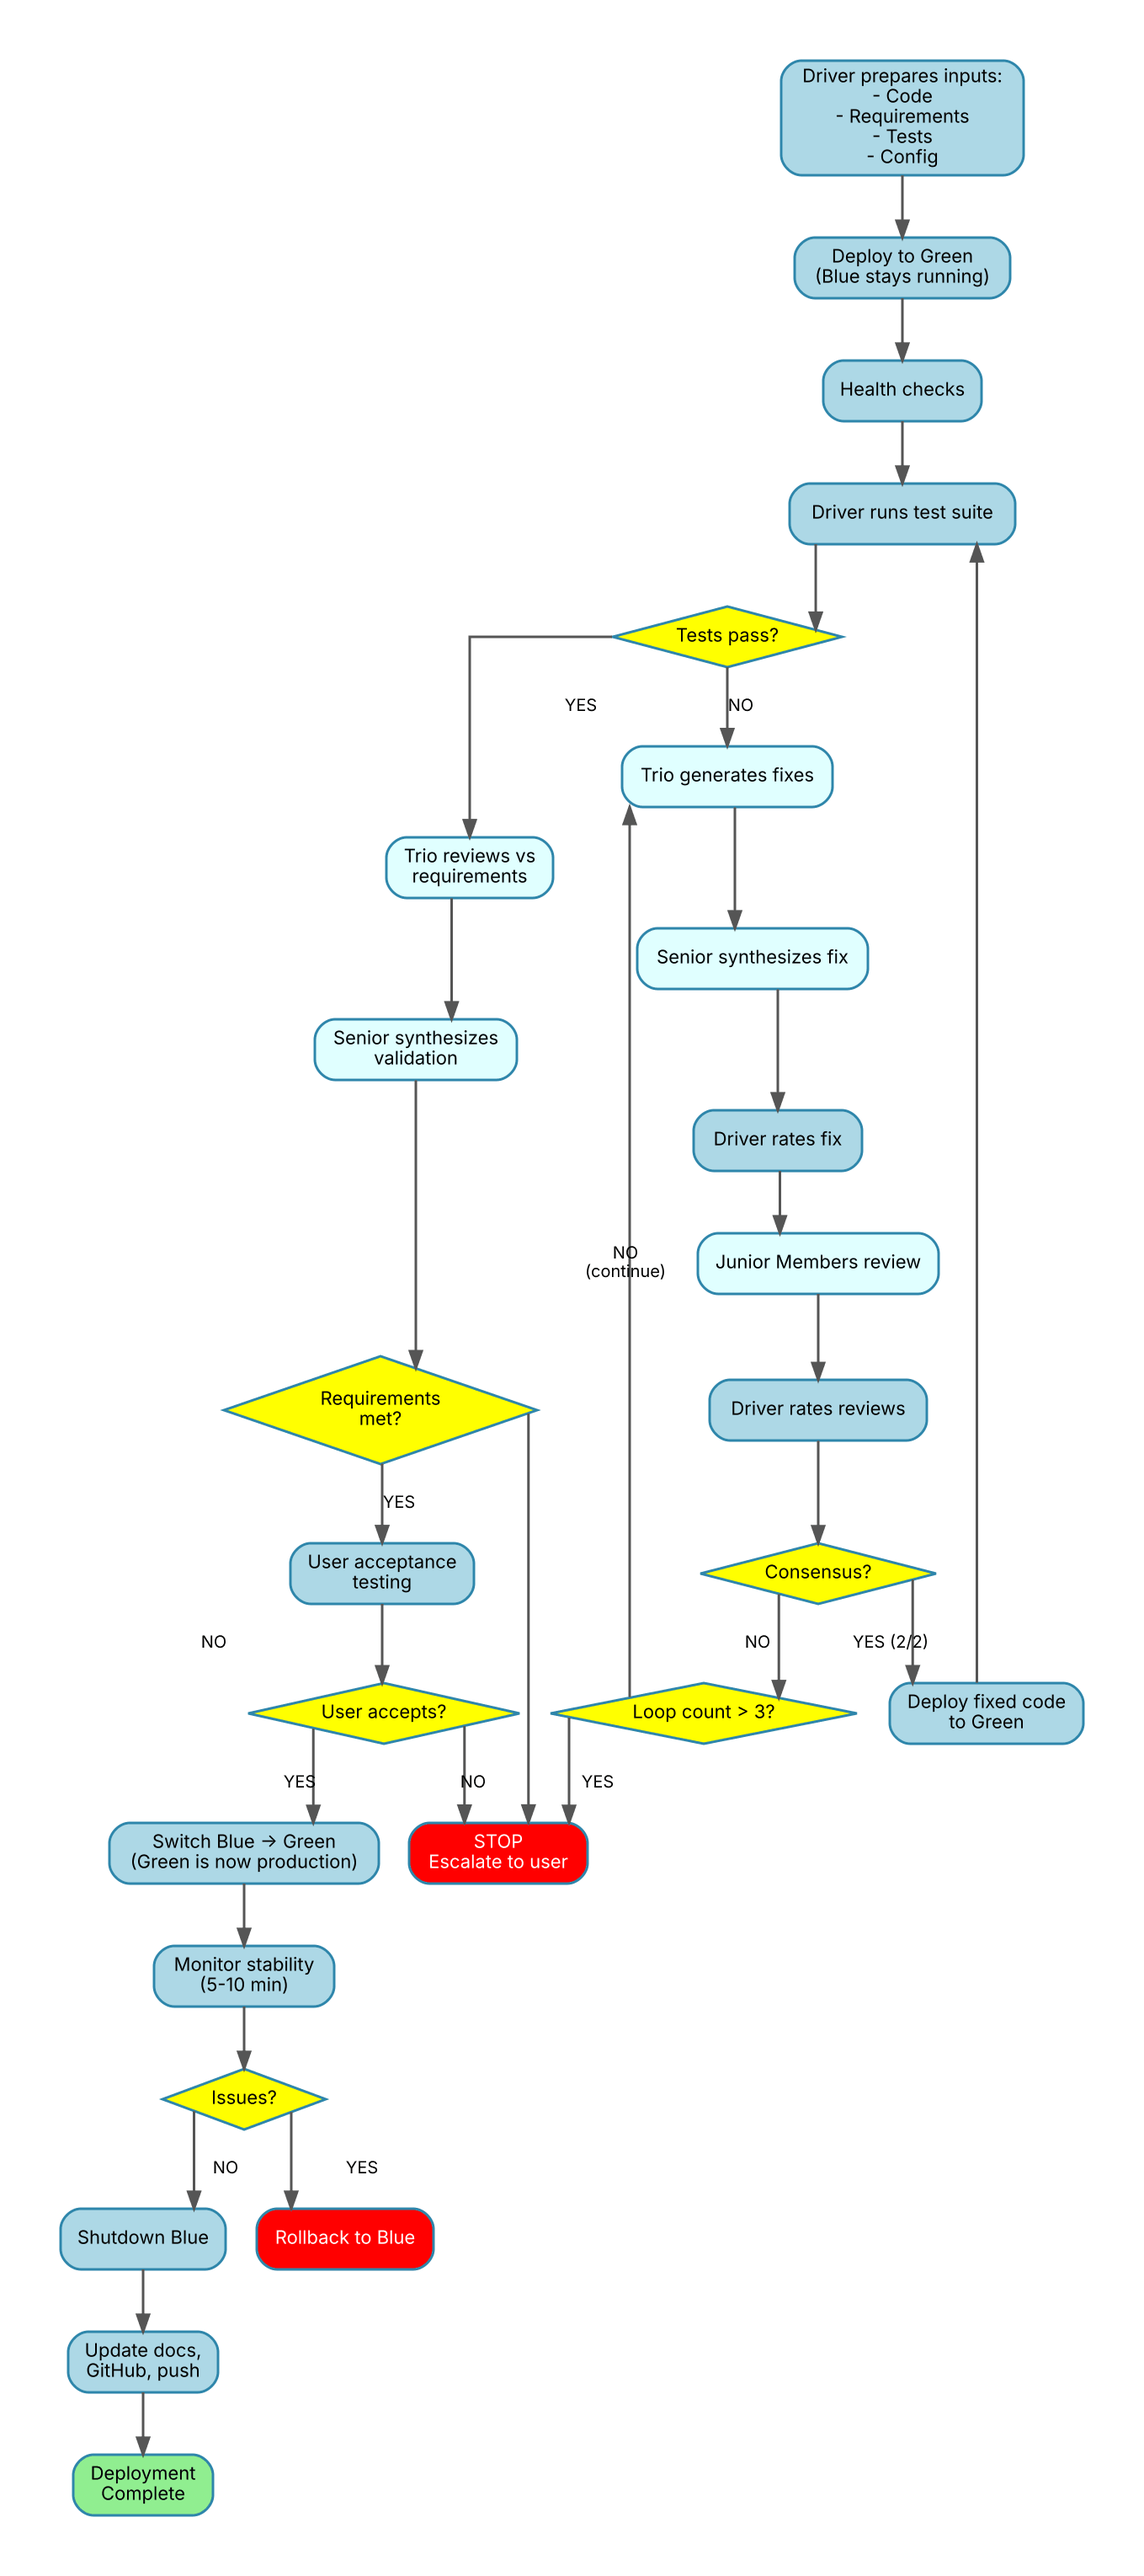
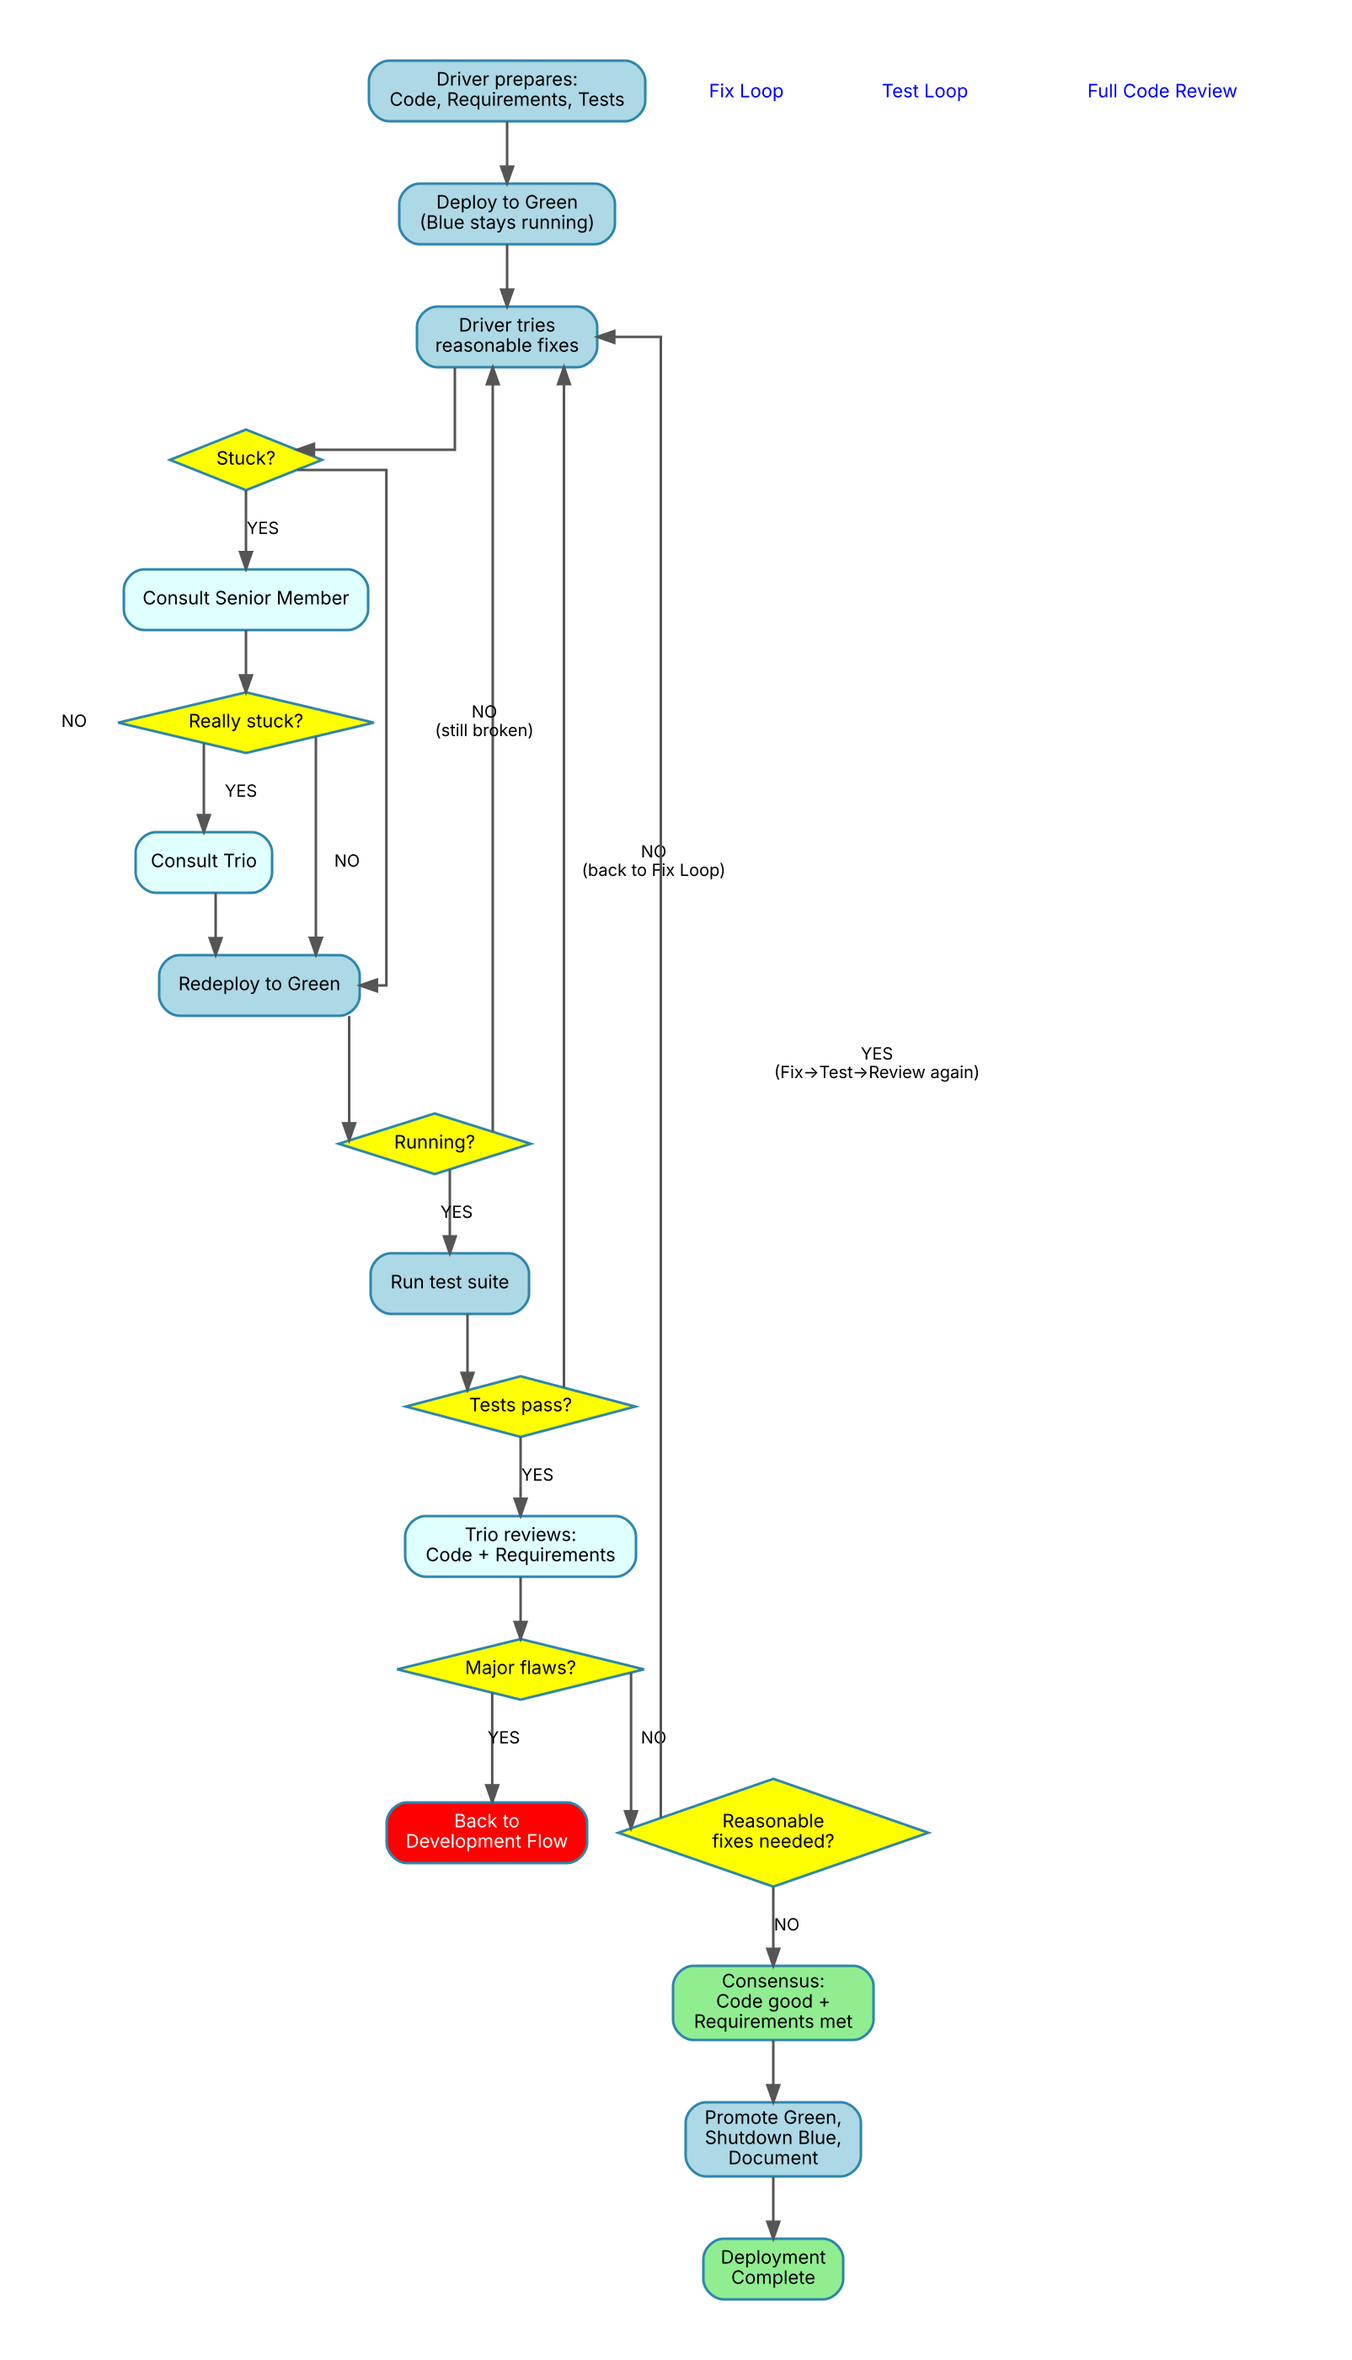
Simplify Deployment Flow: Fix Loop → Test Loop → Full Code Review → Done

diff --git a/processes/Deployment_Flow_v1.0.md b/processes/Deployment_Flow_v1.0.md
@@ -45,275 +45,174 @@ Driver prepares inputs:
   - Tests (from test cycle)
   - Deployment config
   ↓
-Driver validates inputs complete
-  ↓
-Driver creates Blue/Green deployment plan
+Deploy to Green (Blue stays running)
 ```
 
 **Success Criteria:**
 - All inputs present and accessible
-- Deployment config validated
-- Blue/Green strategy defined
-- Rollback plan documented
+- Green environment deployed
+- Blue environment still running (safety net)
 
 ---
 
-### Phase 2: Blue/Green Deployment
+### Phase 2: Fix Loop
 ```
-Driver deploys to Green environment
-  (existing Blue environment remains active)
+[FIX LOOP]
+Driver tries reasonable fixes
   ↓
-Driver verifies Green container/service started
+Stuck?
   ↓
-Driver runs health checks on Green
+If YES → Consult Senior Member
+  ↓
+Really stuck?
+  ↓
+If YES → Consult Trio
+  ↓
+Redeploy to Green
+  ↓
+Running?
+  ↓
+If NO → Continue Fix Loop
+If YES → Proceed to Test Loop
+[END FIX LOOP]
 ```
 
 **Success Criteria:**
-- Green environment deployed successfully
-- Service starts without errors
-- Health checks pass
-- Blue environment still running (safety net)
+- Green environment running without crashes
+- Basic functionality operational
+- Ready for testing
 
-**Blue/Green Strategy:**
-- **Blue**: Currently running production code
-- **Green**: New code being deployed/tested
-- **Switch**: Only after Green fully validated
-- **Rollback**: Switch back to Blue if issues found
+**Fix Strategy:**
+- Start with reasonable fixes Driver can make
+- Escalate to Senior Member when stuck
+- Escalate to Trio for major issues
+- Redeploy and verify after each fix
+- Repeat until service is running
+
+**Note**: Almost nothing "just works" on first deployment. This loop is expected and normal.
 
 ---
 
-### Phase 3: Automated Testing
+### Phase 3: Test Loop
 ```
-Driver runs test suite against Green environment
+[TEST LOOP]
+Driver runs test suite against Green
   ↓
 Tests pass?
   ↓
-If NO → Proceed to Bug Fix Loop
-If YES → Proceed to Requirements Validation
+If NO → Back to Fix Loop
+If YES → Proceed to Full Code Review
+[END TEST LOOP]
 ```
 
 **Success Criteria:**
 - All tests execute
 - All tests pass
 - No errors in test output
-- Test coverage meets threshold
 
 **Test Execution:**
-- Unit tests
-- Integration tests
+- Unit tests (if available)
+- Integration tests (if available)
 - Service health tests
-- Any custom tests from test suite
+- Manual validation if test suite not complete
+
+**Note**: Fix Loop → Test Loop → Fix Loop iteration continues until all tests pass.
 
 ---
 
-### Phase 4: Bug Fix Loop (if tests fail)
+### Phase 4: Full Code Review
 ```
-[LOOP START]
-Driver collects test failures and logs
-  ↓
-Driver sends to Trio (via Fiedler)
-  ↓
-Trio analyzes failures and generates fixes
-  ↓
-Driver sends to Senior Member
-  ↓
-Senior Member synthesizes fix + notes
-  ↓
-Driver reviews & rates (Quality, Completeness, Drift)
-  ↓
-Driver sends to Junior Members
-  ↓
-Junior Members review fix
-  ↓
-Driver reviews & rates Junior performance
-  ↓
-Consensus? (2/2 approve)
-  ↓
-If YES → Deploy updated code to Green, re-run tests
-If NO → Loop (max 3 iterations)
-  ↓
-Tests pass after fix?
-  ↓
-If YES → EXIT LOOP to Requirements Validation
-If NO and loop count ≤ 3 → CONTINUE LOOP
-If NO and loop count > 3 → STOP, escalate to user
-[LOOP END]
-```
-
-**Success Criteria:**
-- Bugs identified and fixed
-- Tests pass after fix
-- Fix reviewed by Junior Members (2/2 approval)
-- No drift from requirements
-
-**Stop Conditions:**
-- Max 3 fix iterations → Escalate to user
-- Fundamental issue with code → Escalate to user
-- Fix causes requirements drift → Stop and consult
-
----
-
-### Phase 5: Requirements Validation
-```
-Driver sends to Trio:
+[REVIEW LOOP]
+Driver sends to Trio (via Fiedler):
   - Deployed code
   - Original requirements
   - Test results
-  - Deployment logs
   ↓
 Trio reviews code against requirements
   ↓
 Driver sends to Senior Member
   ↓
-Senior Member synthesizes validation + notes
+Senior Member synthesizes review
   ↓
-Driver evaluates: Requirements met?
+Driver sends to Junior Members
   ↓
-If NO → Document gaps, consult user (may need new dev cycle)
-If YES → Proceed to UAT
+Junior Members review
+  ↓
+Major flaws found?
+  ↓
+If YES → May need to return to Development Flow
+If NO → Reasonable fixes needed?
+  ↓
+If YES → Back to Fix Loop → Test Loop → Full Code Review again
+If NO → Consensus reached (code good + requirements met)
+[END REVIEW LOOP]
 ```
 
 **Success Criteria:**
-- All requirements addressed in deployed code
-- No missing functionality
-- No scope creep
-- Implementation matches specification
+- Trio consensus: code is good
+- All requirements met
+- No major flaws
+- Ready for production
 
-**Validation Focus:**
-- Functional requirements met
-- Non-functional requirements met (performance, security, etc.)
-- Edge cases handled
-- Error handling present
-
----
-
-### Phase 6: User Acceptance Testing (UAT)
-```
-Driver presents to user:
-  - Deployed Green environment details
-  - Test results
-  - Requirements validation
-  - How to access/test
-  ↓
-User tests Green environment
-  ↓
-User acceptance?
-  ↓
-If NO → Document issues, may trigger new dev cycle or bug fix
-If YES → Proceed to Production Promotion
-```
-
-**Success Criteria:**
-- User has access to Green environment
-- User validates functionality
-- User accepts deployment
-- Any user concerns documented
-
-**UAT Checklist:**
-- Core functionality works as expected
+**Review Focus:**
+- Code quality meets standards
+- Requirements fully implemented
+- Security considerations addressed
 - Performance acceptable
-- UI/UX acceptable (if applicable)
-- No critical issues found
-- User explicitly approves
+- No critical issues
+
+**Decision Points:**
+- **Major flaws**: Fundamental design issues → Return to Development Flow
+- **Reasonable fixes**: Minor issues, bugs, improvements → Back to Fix Loop
+- **Consensus**: Code approved, requirements met → Proceed to completion
 
 ---
 
-### Phase 7: Production Promotion
+### Phase 5: Completion
 ```
-Driver switches traffic from Blue to Green
-  (Green becomes new production)
+Promote Green to production
   ↓
-Driver monitors for issues (5-10 minutes)
+Shutdown Blue environment
   ↓
-Issues detected?
-  ↓
-If YES → Rollback to Blue immediately
-If NO → Proceed to Blue Shutdown
-```
-
-**Success Criteria:**
-- Traffic successfully switched to Green
-- No errors in logs
-- Service responding normally
-- Monitoring confirms stability
-
-**Promotion Steps:**
-1. Update routing/proxy to point to Green
-2. Monitor logs and metrics
-3. Verify Blue is still running (for rollback)
-4. Wait for stability period (5-10 min)
-
----
-
-### Phase 8: Blue Shutdown & Documentation
-```
-Driver confirms Green stable
-  ↓
-Driver stops Blue environment
-  ↓
-Driver updates documentation:
-  - Deployment notes
-  - Test results
-  - Any issues encountered
-  - Performance baselines
-  ↓
-Driver updates GitHub:
-  - Close related issues
-  - Update affected docs
-  - Commit deployment notes
-  - Push to GitHub
+Driver updates documentation and GitHub
   ↓
 Deployment Complete
 ```
 
 **Success Criteria:**
+- Green promoted to production
 - Blue safely shut down
 - Documentation updated
 - GitHub issues closed
-- Deployment notes committed
-- Team notified
 
-**Documentation Requirements:**
-- Deployment timestamp
-- Code version/commit hash
-- Test results summary
-- Any issues encountered and resolutions
-- Performance metrics
-- Rollback instructions (for future reference)
+**Completion Actions:**
+1. Promote Green (rename container, update routing if needed)
+2. Stop and remove Blue environment
+3. Update documentation:
+   - Deployment notes
+   - Test results summary
+   - Issues encountered and resolutions
+4. Update GitHub:
+   - Close related issues (with `fixes #N`)
+   - Update affected docs
+   - Commit and push changes
 
 ---
 
 ## Rollback Procedure
 
-**Trigger Conditions:**
-- Tests fail after max iterations (3)
-- Requirements not met
-- User rejects in UAT
-- Issues detected after promotion
+**When to Rollback:**
+- Green environment won't stabilize after reasonable fixes
+- Major flaws discovered requiring Development Flow restart
+- User requests rollback
 
 **Rollback Steps:**
-1. Switch traffic back to Blue
+1. Keep Blue running (it never stopped)
 2. Stop Green environment
 3. Document reason for rollback
-4. Analyze failure (may consult Trio)
-5. Determine next steps (fix and retry, or new dev cycle)
-
----
-
-## Stop Conditions & Escalation
-
-**Driver stops deployment and escalates to user when:**
-- Test failures exceed 3 fix iterations
-- Requirements validation fails
-- User rejects in UAT
-- Critical issues found after promotion
-- Fundamental code issues requiring redesign
-
-**Escalation Process:**
-1. Driver documents issue clearly
-2. Driver presents options (rollback, fix, new cycle)
-3. User decides path forward
-4. Driver executes user decision
+4. Determine next steps:
+   - Minor fixes: Retry deployment with fixes
+   - Major issues: Return to Development Flow
 
 ---
 
@@ -321,15 +220,14 @@ Deployment Complete
 
 **Deployment Quality:**
 - All tests pass
+- Trio consensus achieved
 - Requirements fully met
-- User acceptance achieved
-- Zero production issues in first 24 hours
+- Green stable in production
 
 **Deployment Efficiency:**
-- Time from start to production
-- Number of bug fix iterations
-- Rollback frequency
-- User acceptance rate
+- Time from start to completion
+- Number of Fix Loop iterations
+- Trio review outcome (consensus vs. major flaws)
 
 ---
 
